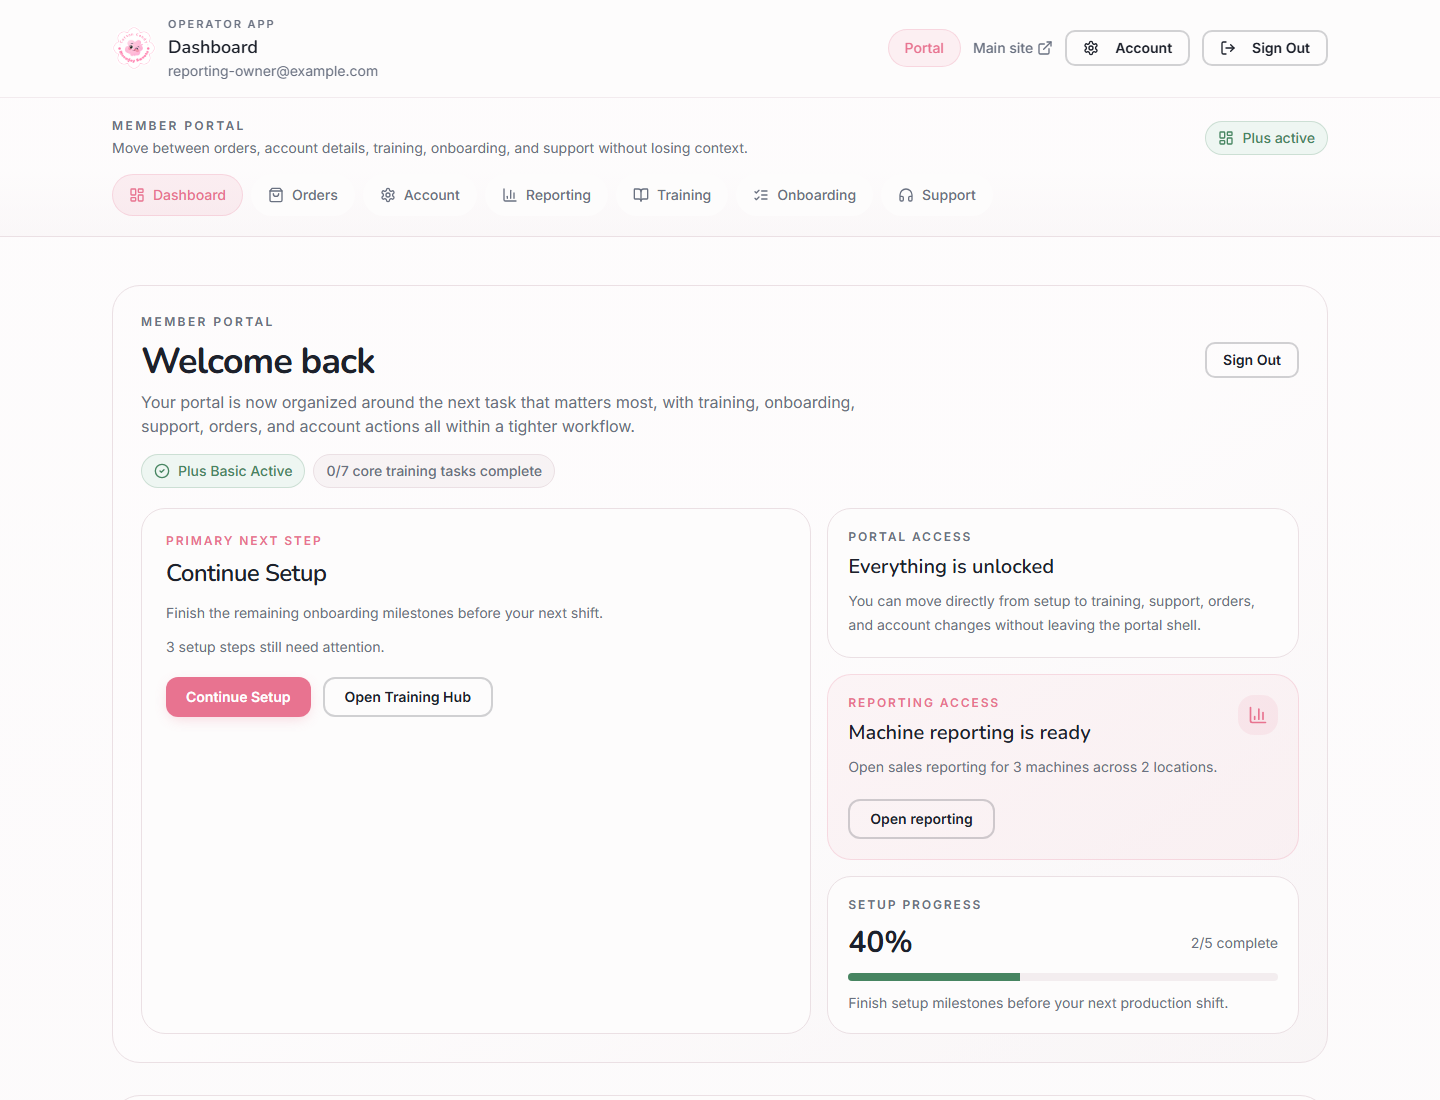
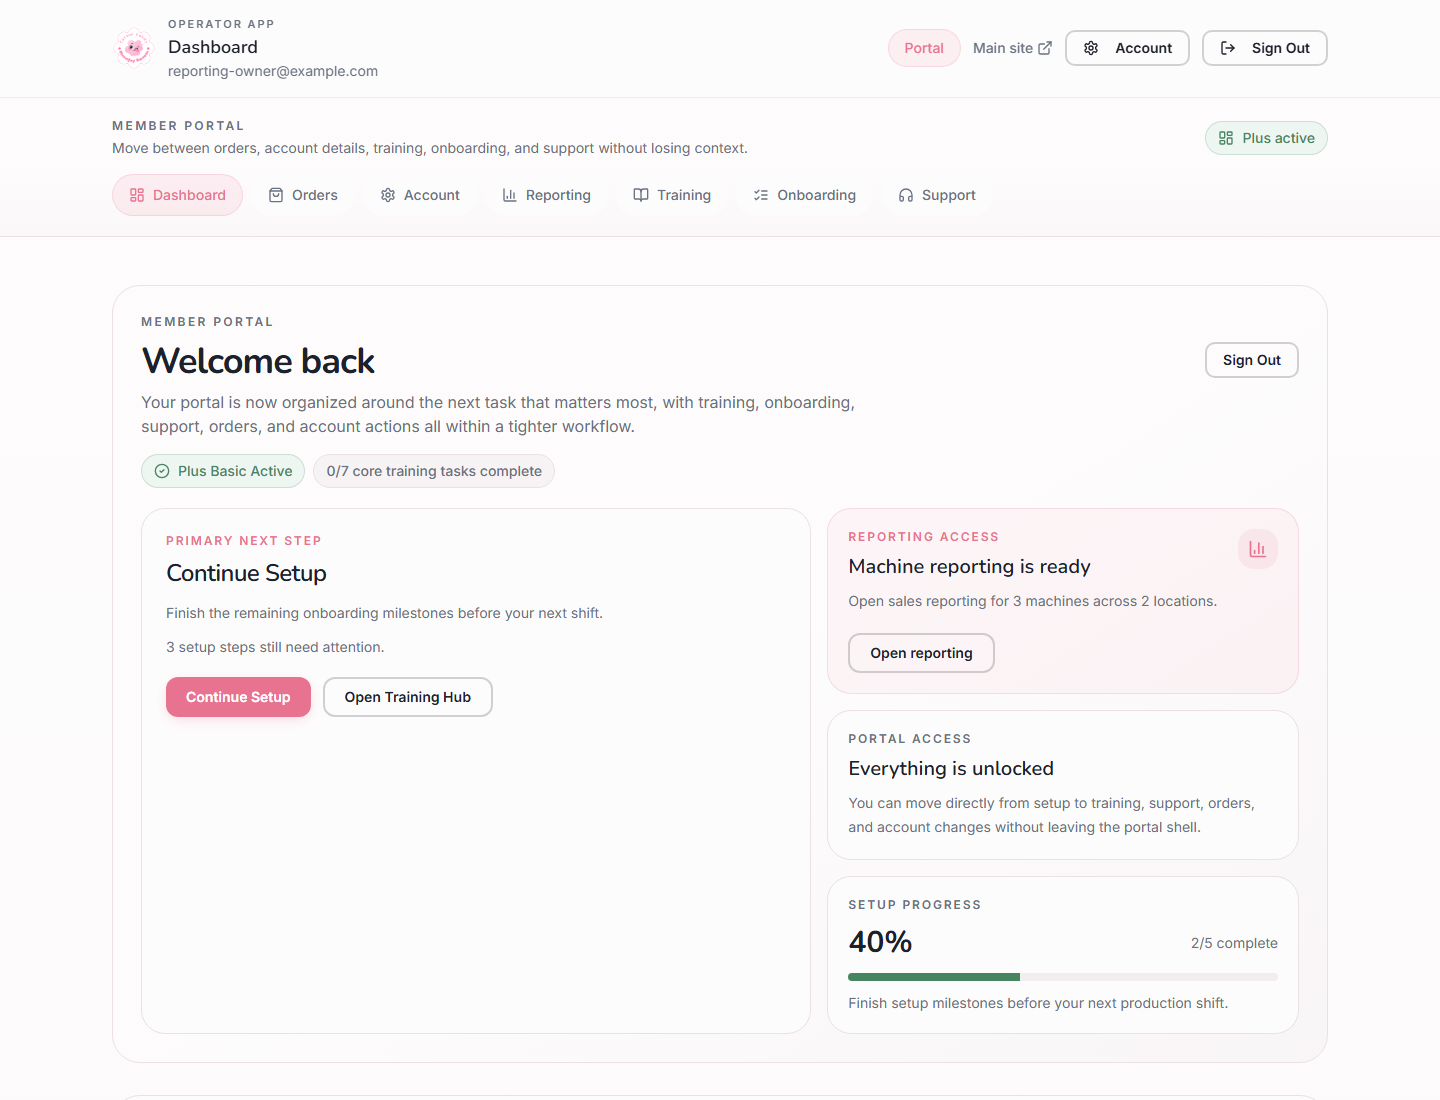
Address portal reporting QA

Changed region(s): [[0.5938, 0.4636, 0.875, 0.7727]]

diff --git a/src/pages/portal/Dashboard.tsx b/src/pages/portal/Dashboard.tsx
@@ -138,8 +138,23 @@ export default function PortalDashboard() {
   const onboardingRemainingCount =
     onboardingProgress.totalSteps - onboardingProgress.completedCount;
   const nextOnboardingSteps = onboardingProgress.steps.filter((step) => !step.completed).slice(0, 3);
+  const reportingScopeDescription =
+    reportingMachineCount > 0
+      ? `Open sales reporting for ${formatCountLabel(reportingMachineCount, 'machine', 'machines')}${
+          reportingLocationCount > 0
+            ? ` across ${formatCountLabel(reportingLocationCount, 'location', 'locations')}`
+            : ''
+        }.`
+      : 'Open sales reporting for the machines assigned to this account.';
 
-  const primaryAction = !canAccessTraining
+  const primaryAction = hasReportingAccess && !isMember
+    ? {
+        label: 'Open Reporting',
+        href: '/portal/reports',
+        description: 'Review assigned machine sales, trends, and reporting exports.',
+        helper: reportingScopeDescription,
+      }
+    : !canAccessTraining
     ? {
         label: 'Reorder Supplies',
         href: '/supplies',
@@ -272,6 +287,30 @@ export default function PortalDashboard() {
               </div>
 
               <div className="grid gap-4 sm:grid-cols-2 xl:grid-cols-1">
+                {hasReportingAccess && (
+                  <div className="rounded-[24px] border border-primary/20 bg-primary/5 p-5 shadow-[var(--shadow-sm)]">
+                    <div className="flex items-start justify-between gap-3">
+                      <div>
+                        <p className="text-xs font-semibold uppercase tracking-[0.16em] text-primary">
+                          Reporting access
+                        </p>
+                        <p className="mt-2 font-display text-xl font-semibold text-foreground">
+                          Machine reporting is ready
+                        </p>
+                      </div>
+                      <span className="flex h-10 w-10 shrink-0 items-center justify-center rounded-2xl bg-primary/10 text-primary">
+                        <BarChart3 className="h-5 w-5" />
+                      </span>
+                    </div>
+                    <p className="mt-2 text-sm leading-6 text-muted-foreground">
+                      {reportingScopeDescription}
+                    </p>
+                    <Button asChild variant="outline" className="mt-5 w-full sm:w-auto">
+                      <Link to="/portal/reports">Open reporting</Link>
+                    </Button>
+                  </div>
+                )}
+
                 <div className="rounded-[24px] border border-border bg-background p-5 shadow-[var(--shadow-sm)]">
                   <p className="text-xs font-semibold uppercase tracking-[0.16em] text-muted-foreground">
                     Portal access
@@ -291,41 +330,6 @@ export default function PortalDashboard() {
                         : 'Baseline access keeps reorders, order history, and account updates simple while Bloomjoy Plus unlocks guided setup, training, and support.'}
                   </p>
                 </div>
-
-                {hasReportingAccess && (
-                  <div className="rounded-[24px] border border-primary/20 bg-primary/5 p-5 shadow-[var(--shadow-sm)]">
-                    <div className="flex items-start justify-between gap-3">
-                      <div>
-                        <p className="text-xs font-semibold uppercase tracking-[0.16em] text-primary">
-                          Reporting access
-                        </p>
-                        <p className="mt-2 font-display text-xl font-semibold text-foreground">
-                          Machine reporting is ready
-                        </p>
-                      </div>
-                      <span className="flex h-10 w-10 shrink-0 items-center justify-center rounded-2xl bg-primary/10 text-primary">
-                        <BarChart3 className="h-5 w-5" />
-                      </span>
-                    </div>
-                    <p className="mt-2 text-sm leading-6 text-muted-foreground">
-                      {reportingMachineCount > 0 ? (
-                        <>
-                          Open sales reporting for{' '}
-                          {formatCountLabel(reportingMachineCount, 'machine', 'machines')}
-                          {reportingLocationCount > 0
-                            ? ` across ${formatCountLabel(reportingLocationCount, 'location', 'locations')}`
-                            : ''}
-                          .
-                        </>
-                      ) : (
-                        'Open sales reporting for the machines assigned to this account.'
-                      )}
-                    </p>
-                    <Button asChild variant="outline" className="mt-5 w-full sm:w-auto">
-                      <Link to="/portal/reports">Open reporting</Link>
-                    </Button>
-                  </div>
-                )}
 
                 {canAccessTraining ? (
                   <div className="rounded-[24px] border border-border bg-background p-5 shadow-[var(--shadow-sm)]">

diff --git a/Docs/QA_SMOKE_TEST_CHECKLIST.md b/Docs/QA_SMOKE_TEST_CHECKLIST.md
@@ -100,7 +100,7 @@ Run these checks on localhost for each PR that adds a user-facing feature.
 - [ ] On mobile app routes, page-intro actions stack cleanly full width instead of squeezing side-by-side on `/portal`, `/portal/orders`, `/portal/account`, `/portal/onboarding`, `/portal/support`, and `/portal/training`
 - [ ] Non-Plus login can access baseline pages (`/portal`, `/portal/orders`, `/portal/account`)
 - [ ] Non-Plus login is blocked from gated pages (`/portal/training`, `/portal/onboarding`, `/portal/support`) with clear access messaging
-- [ ] Non-Plus login still sees gated destinations in portal navigation and dashboard action cards with clear locked/access-tier treatment
+- [ ] Non-Plus login still sees Plus/training gated destinations in portal navigation and dashboard action cards with clear locked/access-tier treatment; Reporting stays hidden unless reporting access is granted
 - [ ] Active Plus member or super-admin can add multiple operator emails from `/portal/account` under Operator Training Access
 - [ ] Adding operator training access sends the operator an invite email with a login link
 - [ ] Operator Training Access shows a simple list of people with training access and a clear setup message when the database rollout is missing
